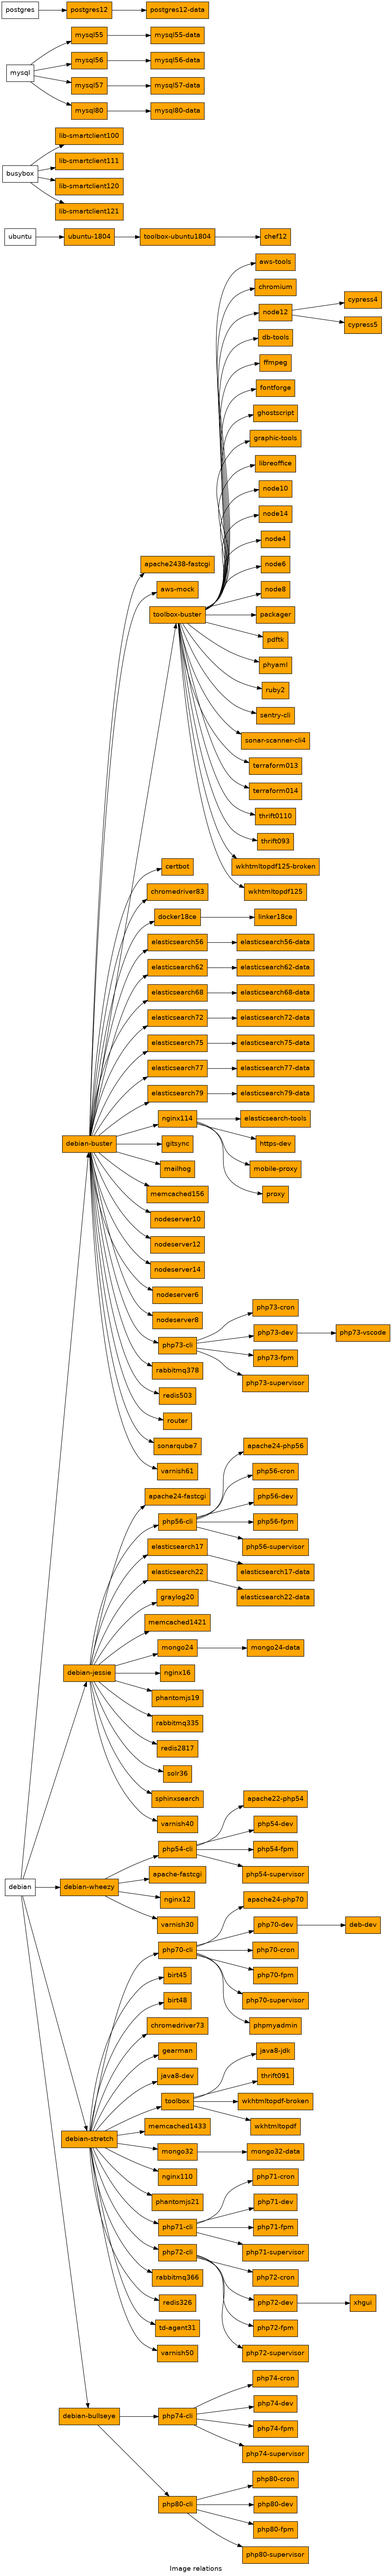
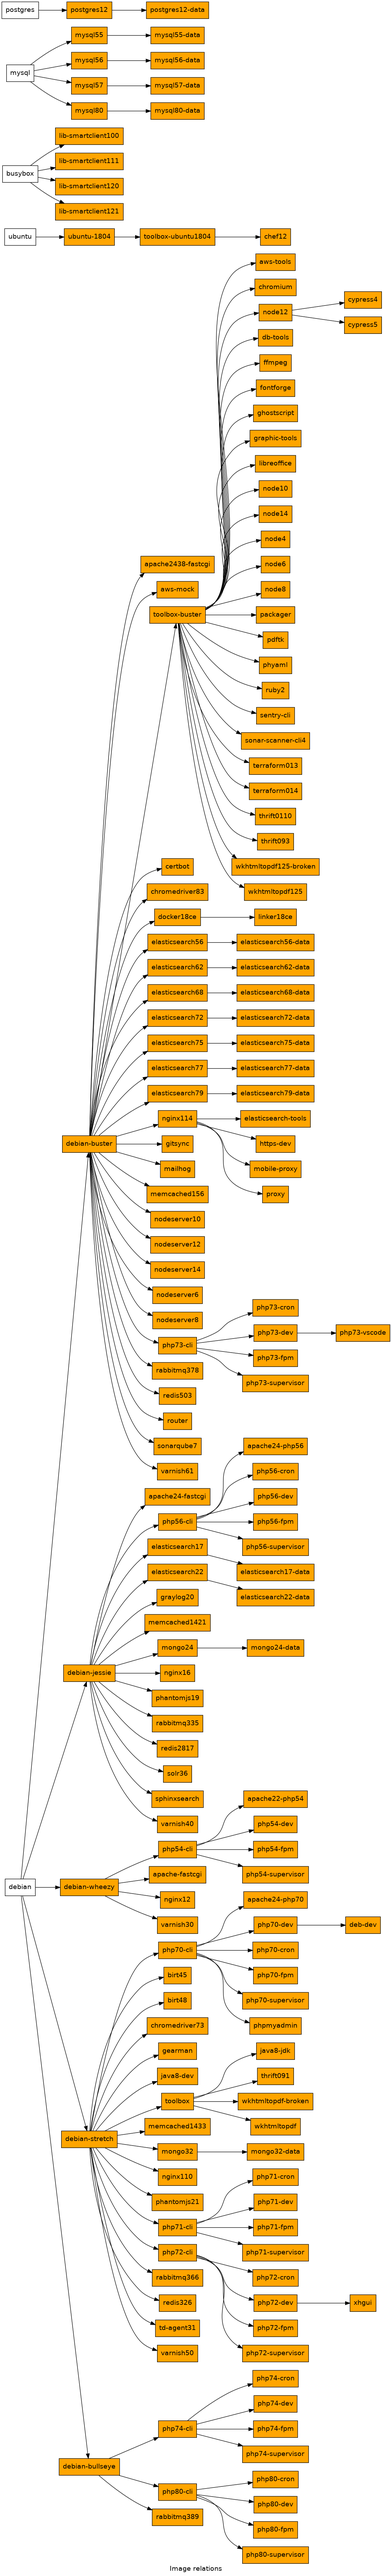
Rabbitmq389 image added

diff --git a/rabbitmq389/README.md b/rabbitmq389/README.md
@@ -1,0 +1,49 @@
+
+
+## supported env vars
+
+
+### NFQ_ENABLE_RABBITMQ_MODULES (optional)
+
+Provide space separated lists of modules in a single quoted string
+
+example:
+    docker run -it -e NFQ_ENABLE_RABBITMQ_MODULES='rabbitmq_management rabbitmq_top' <this_image>
+
+#### list of available modules
+
+* rabbitmq_amqp1_0
+* rabbitmq_auth_backend_cache
+* rabbitmq_auth_backend_http
+* rabbitmq_auth_backend_ldap
+* rabbitmq_auth_mechanism_ssl
+* rabbitmq_consistent_hash_exchange
+* rabbitmq_event_exchange
+* rabbitmq_federation
+* rabbitmq_federation_management
+* rabbitmq_jms_topic_exchange
+* rabbitmq_management
+* rabbitmq_management_agent
+* rabbitmq_mqtt
+* rabbitmq_peer_discovery_aws
+* rabbitmq_peer_discovery_common
+* rabbitmq_peer_discovery_consul
+* rabbitmq_peer_discovery_etcd
+* rabbitmq_peer_discovery_k8s
+* rabbitmq_random_exchange
+* rabbitmq_recent_history_exchange
+* rabbitmq_sharding
+* rabbitmq_shovel
+* rabbitmq_shovel_management
+* rabbitmq_stomp
+* rabbitmq_top
+* rabbitmq_tracing
+* rabbitmq_trust_store
+* rabbitmq_web_dispatch
+* rabbitmq_web_mqtt
+* rabbitmq_web_mqtt_examples
+* rabbitmq_web_stomp
+* rabbitmq_web_stomp_examples
+* rabbitmq_delayed_message_exchange
+
+
